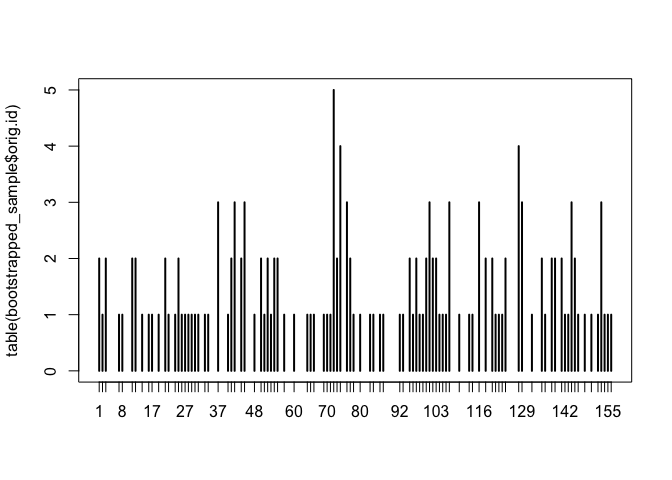
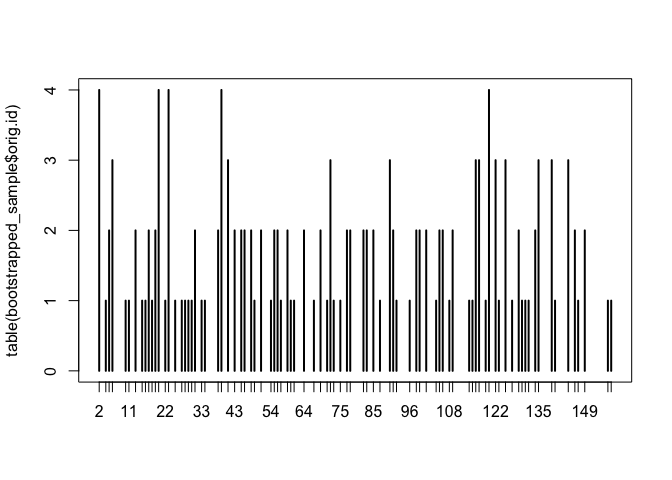
no message

diff --git a/creatinine/creatinine_bootstrap.md b/creatinine/creatinine_bootstrap.md
@@ -73,27 +73,27 @@ command.
     bootstrapped_sample = sample(creatinine, size = 157, replace=TRUE)
     head(bootstrapped_sample, 20)
 
-    ##       age creatclear orig.id
-    ## 21     73      108.8      21
-    ## 53     32      137.9      53
-    ## 144    45      117.8     144
-    ## 130    32      126.6     130
-    ## 148    25      123.0     148
-    ## 135    74       96.6     135
-    ## 108    24      131.7     108
-    ## 93     21      135.9      93
-    ## 119    25      140.8     119
-    ## 57     61      118.6      57
-    ## 133    43      123.2     133
-    ## 18     34      128.6      18
-    ## 115    54      113.9     115
-    ## 46     31      133.9      46
-    ## 144.1  45      117.8     144
-    ## 60     39      124.6      60
-    ## 41     23      128.7      41
-    ## 80     37      121.3      80
-    ## 24     23      133.9      24
-    ## 31     32      117.5      31
+    ##      age creatclear orig.id
+    ## 133   43      123.2     133
+    ## 150   62      114.7     150
+    ## 45    26      130.3      45
+    ## 45.1  26      130.3      45
+    ## 119   25      140.8     119
+    ## 83    31      131.6      83
+    ## 125   24      129.6     125
+    ## 148   25      123.0     148
+    ## 25    28      126.8      25
+    ## 153   23      127.9     153
+    ## 9     38      115.2       9
+    ## 8     73      103.0       8
+    ## 141   28      125.1     141
+    ## 101   26      138.5     101
+    ## 130   32      126.6     130
+    ## 122   41      121.5     122
+    ## 113   63      112.5     113
+    ## 57    61      118.6      57
+    ## 74    51      110.4      74
+    ## 52    27      130.9      52
 
 If you look carefully, you may see a repeated entry in these first 20
 rows. That's because our bootstrapped sample is a sample with
@@ -138,7 +138,7 @@ different sample means you get for each bootstrapped sample.
     bootstrapped_sample = resample(creatinine)
     mean(bootstrapped_sample$creatclear)
 
-    ## [1] 124.8217
+    ## [1] 124.514
 
 The final trick is to use the `do` command to automatic the process of
 taking repeated bootstrapped samples and computing the sample mean for
@@ -150,16 +150,16 @@ each one.
     }
 
     ##      result
-    ## 1  126.8019
-    ## 2  123.8828
-    ## 3  125.7191
-    ## 4  126.9376
-    ## 5  125.8873
-    ## 6  124.5503
-    ## 7  125.3854
-    ## 8  124.3280
-    ## 9  125.8242
-    ## 10 124.7159
+    ## 1  126.7376
+    ## 2  125.8503
+    ## 3  127.3510
+    ## 4  124.5248
+    ## 5  127.4191
+    ## 6  125.8497
+    ## 7  124.2701
+    ## 8  124.0465
+    ## 9  125.9783
+    ## 10 125.6064
 
 If this looks unfamiliar, try revisiting the ["Gone
 fishing"](http://jgscott.github.io/teaching/r/gonefishing/gonefishing.html)
@@ -180,7 +180,7 @@ sample mean for each one and visualize the results.
 
     sd(myboot$result)
 
-    ## [1] 0.9392241
+    ## [1] 0.9208574
 
 Because we have different bootstrapped samples, your histogram and
 estimated standard error will look slightly different from mine. But
@@ -226,7 +226,7 @@ sample. Try executing this code block 5-10 different times:
     ## 
     ## Coefficients:
     ## (Intercept)          age  
-    ##    146.4965      -0.6011
+    ##    150.5431      -0.6824
 
 Notice how the slope and intercept of the fitted line change for each
 sample.
@@ -243,12 +243,12 @@ command to automate the whole process and save the result.
     head(myboot2)
 
     ##   Intercept        age    sigma r.squared        F numdf dendf .row .index
-    ## 1  148.2290 -0.6327054 6.787903 0.6262125 259.6741     1   155    1      1
-    ## 2  148.8770 -0.6332059 6.913182 0.6499207 287.7568     1   155    1      2
-    ## 3  148.6194 -0.6349592 6.703134 0.6934170 350.5727     1   155    1      3
-    ## 4  146.1254 -0.5865175 7.251837 0.6332982 267.6868     1   155    1      4
-    ## 5  148.2196 -0.6398906 6.912309 0.7048450 370.1479     1   155    1      5
-    ## 6  147.6896 -0.6231221 7.205105 0.6624543 304.1971     1   155    1      6
+    ## 1  146.5953 -0.5539220 6.979254 0.6380754 273.2660     1   155    1      1
+    ## 2  146.0221 -0.5601161 7.996567 0.5505381 189.8568     1   155    1      2
+    ## 3  148.0365 -0.6181531 6.878273 0.7018148 364.8113     1   155    1      3
+    ## 4  150.3503 -0.7051662 6.436485 0.6970664 356.6632     1   155    1      4
+    ## 5  149.2101 -0.6572372 6.290953 0.7603602 491.8041     1   155    1      5
+    ## 6  149.3291 -0.6452266 6.892803 0.7063523 372.8434     1   155    1      6
 
 Notice that we have separate columns for the intercept, slope on the age
 variable, sigma (the residual standard deviation), and R-squared. (Don't
@@ -261,7 +261,7 @@ distributions for the intercept and slope.
 
     sd(myboot2$Intercept)
 
-    ## [1] 1.421574
+    ## [1] 1.480747
 
     hist(myboot2$age)
 
@@ -269,7 +269,7 @@ distributions for the intercept and slope.
 
     sd(myboot2$age)
 
-    ## [1] 0.03839219
+    ## [1] 0.03944745
 
 ### Confidence intervals
 
@@ -292,7 +292,7 @@ endpoints on the plot.
     myinterval
 
     ##        10%        90% 
-    ## -0.6702646 -0.5749208
+    ## -0.6705294 -0.5725388
 
 We would refer to this interval as an 80% confidence interval for the
 slope of the age variable in our regression model. (As above, your
@@ -312,11 +312,11 @@ for all model parameters:
     confint(myboot2, level=0.8)
 
     ##        name       lower       upper level     method    estimate
-    ## 1 Intercept 146.0836313 149.6998619   0.8 percentile 147.8129158
-    ## 2       age  -0.6702646  -0.5749208   0.8 percentile  -0.6198159
-    ## 3     sigma   6.3414062   7.3740700   0.8 percentile   6.9105379
-    ## 4 r.squared   0.6154664   0.7243072   0.8 percentile   0.6724361
-    ## 5         F 248.0859838 407.2199786   0.8 percentile 318.1901588
+    ## 1 Intercept 146.0341078 149.7247575   0.8 percentile 147.8129158
+    ## 2       age  -0.6705294  -0.5725388   0.8 percentile  -0.6198159
+    ## 3     sigma   6.3707481   7.3098796   0.8 percentile   6.9105379
+    ## 4 r.squared   0.6177443   0.7269072   0.8 percentile   0.6724361
+    ## 5         F 250.4877322 412.5727339   0.8 percentile 318.1901588
 
 You will notice that this gives a slightly different answer to the
 confidence interval we calculated from the quantiles, above. That's
@@ -409,9 +409,12 @@ look approximately normal? We will make a histogram and check:
 
 ![](creatinine_bootstrap_files/figure-markdown_strict/unnamed-chunk-19-1.png)
 
-It seems so. Second, do the residuals look like they have approximately
-constant variance? We will plot the residuals versus the fitted values
-and see whether there are any "fan" shapes:
+This histogram shows no obvious departures from normality, so we're good
+on the first question.
+
+Second, do the residuals look like they have approximately constant
+variance? We will plot the residuals versus the fitted values and see
+whether there are any "fan" shapes:
 
     plot(resid(lm1) ~ fitted(lm1))
 
@@ -420,8 +423,9 @@ and see whether there are any "fan" shapes:
 There are no fan shapes here; the residuals exhibit a similar scale of
 variation regardless of the fitted value from the regression model.
 
-The same plot above also gives us an answer to the third question: do
-the residuals look independent of each other? We do not see any obvious
+The same plot above, of the residuals versus the fitted values, also
+gives us an answer to the third question: do the residuals look
+independent of each other? Yes, they do. We do not see any obvious
 patterns of dependence, in which adjacent residuals look more similar to
 each other than far-apart residuals.
 
@@ -433,11 +437,11 @@ intervals and the Gaussian confidence intervals are nearly identical:
     confint(myboot2)
 
     ##        name       lower       upper level     method    estimate
-    ## 1 Intercept 145.1780197 150.7291912  0.95 percentile 147.8129158
-    ## 2       age  -0.7025909  -0.5465182  0.95 percentile  -0.6198159
-    ## 3     sigma   6.0970427   7.6388917  0.95 percentile   6.9105379
-    ## 4 r.squared   0.5773234   0.7476787  0.95 percentile   0.6724361
-    ## 5         F 211.7106819 459.2972818  0.95 percentile 318.1901588
+    ## 1 Intercept 144.9066372 150.7918606  0.95 percentile 147.8129158
+    ## 2       age  -0.7026099  -0.5497488  0.95 percentile  -0.6198159
+    ## 3     sigma   6.1324210   7.5942863  0.95 percentile   6.9105379
+    ## 4 r.squared   0.5815549   0.7490051  0.95 percentile   0.6724361
+    ## 5         F 215.4189249 462.5423914  0.95 percentile 318.1901588
 
     confint(lm1)
 
